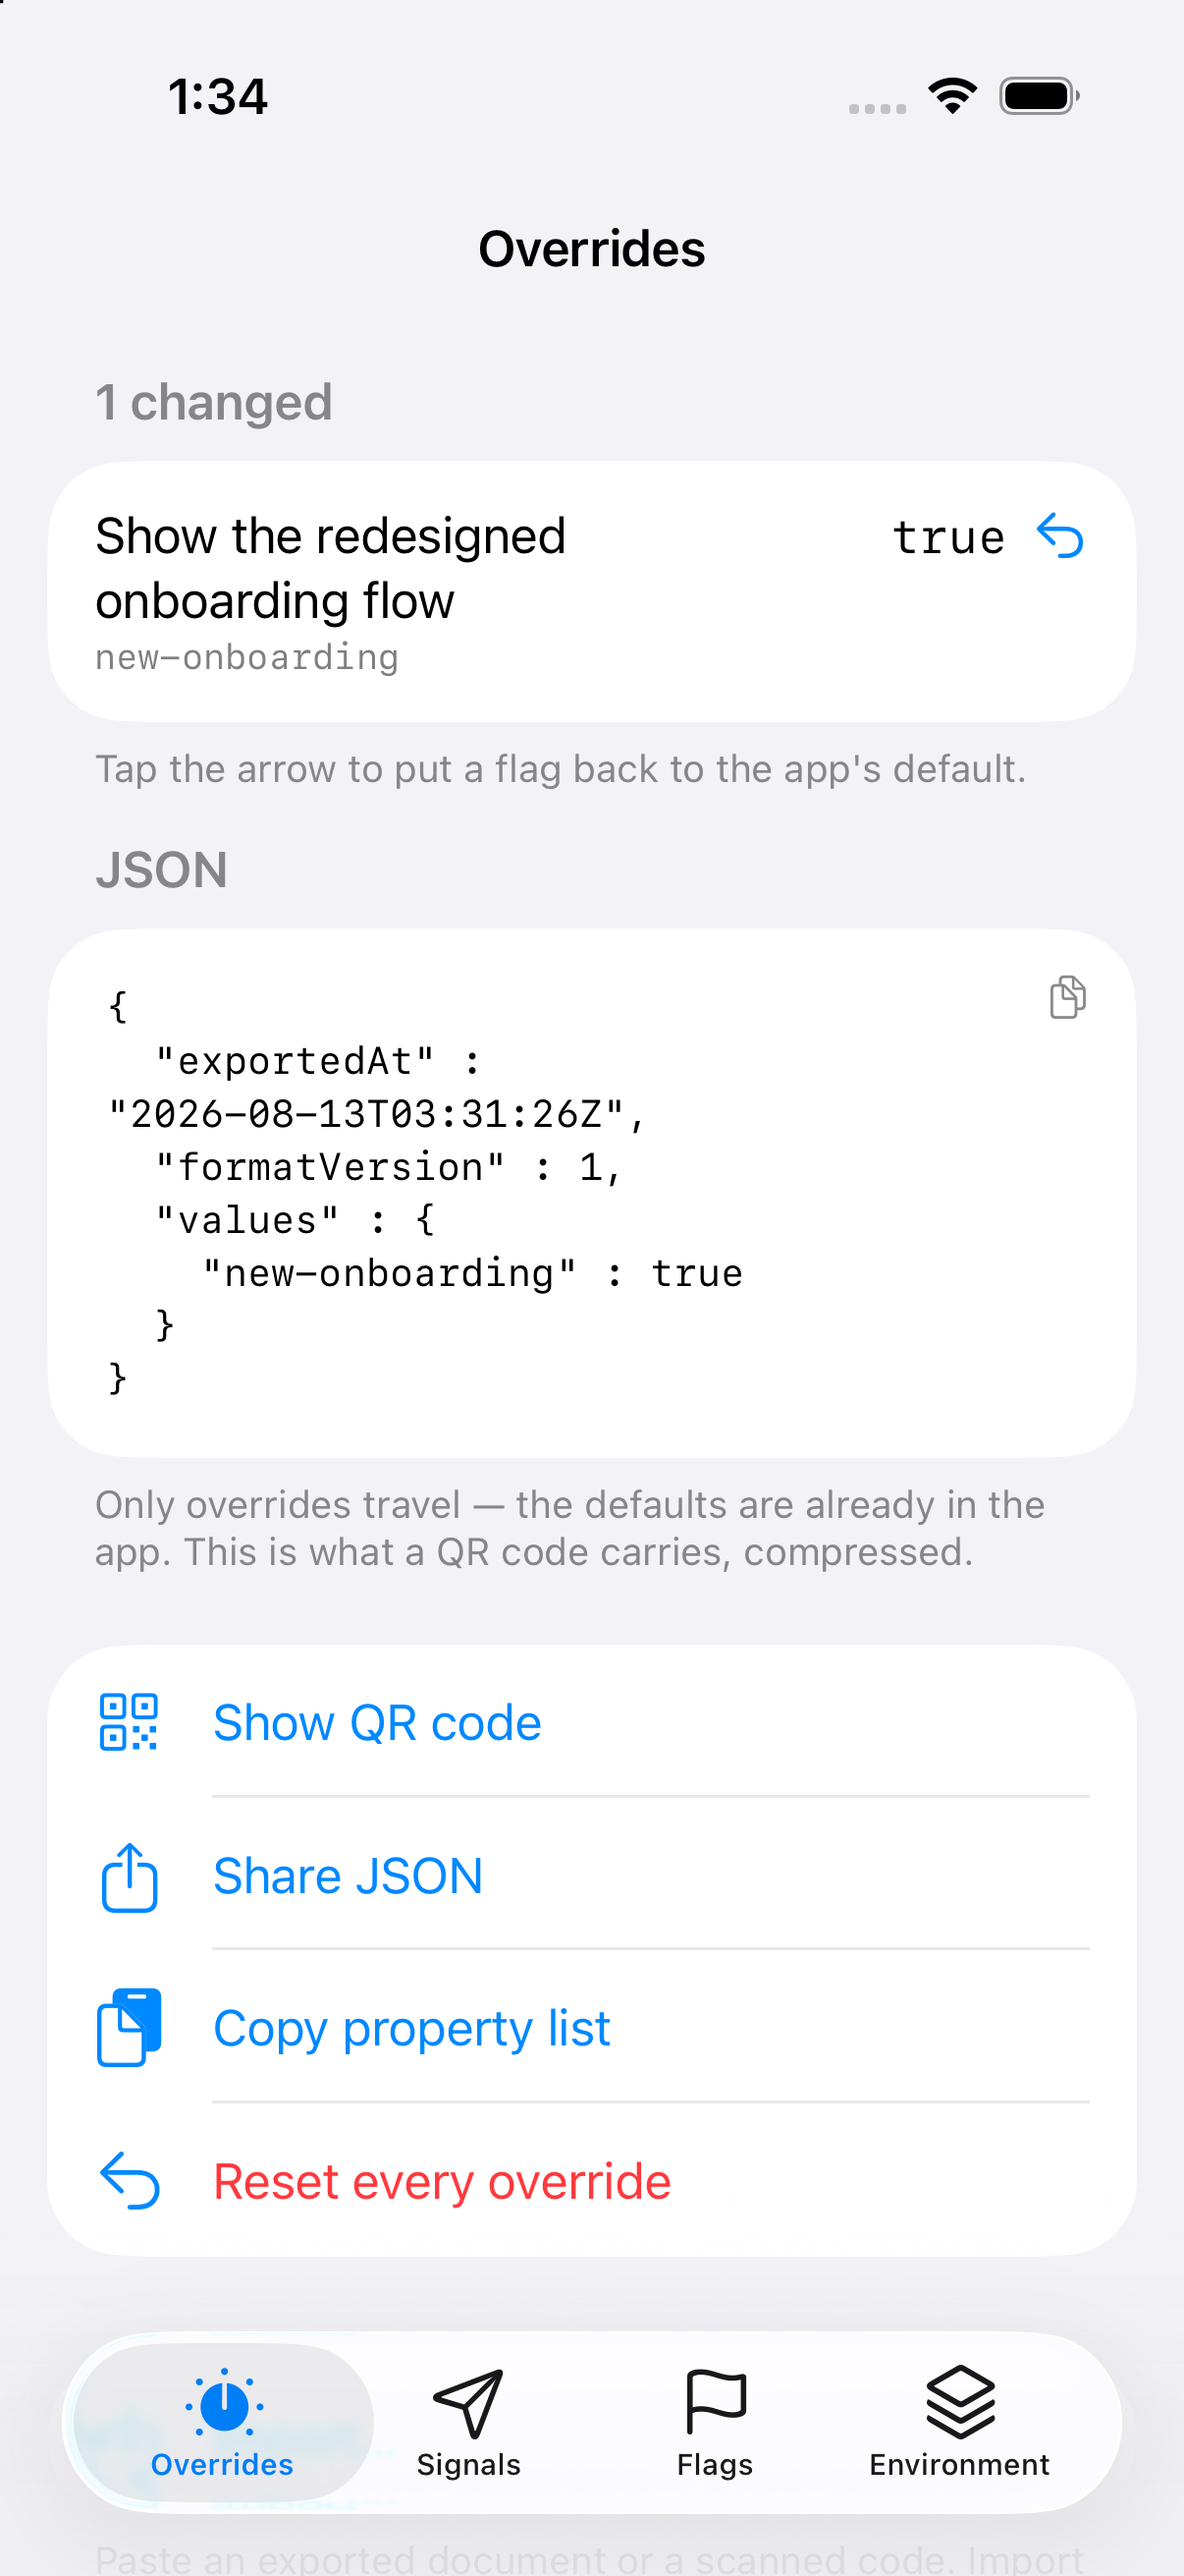
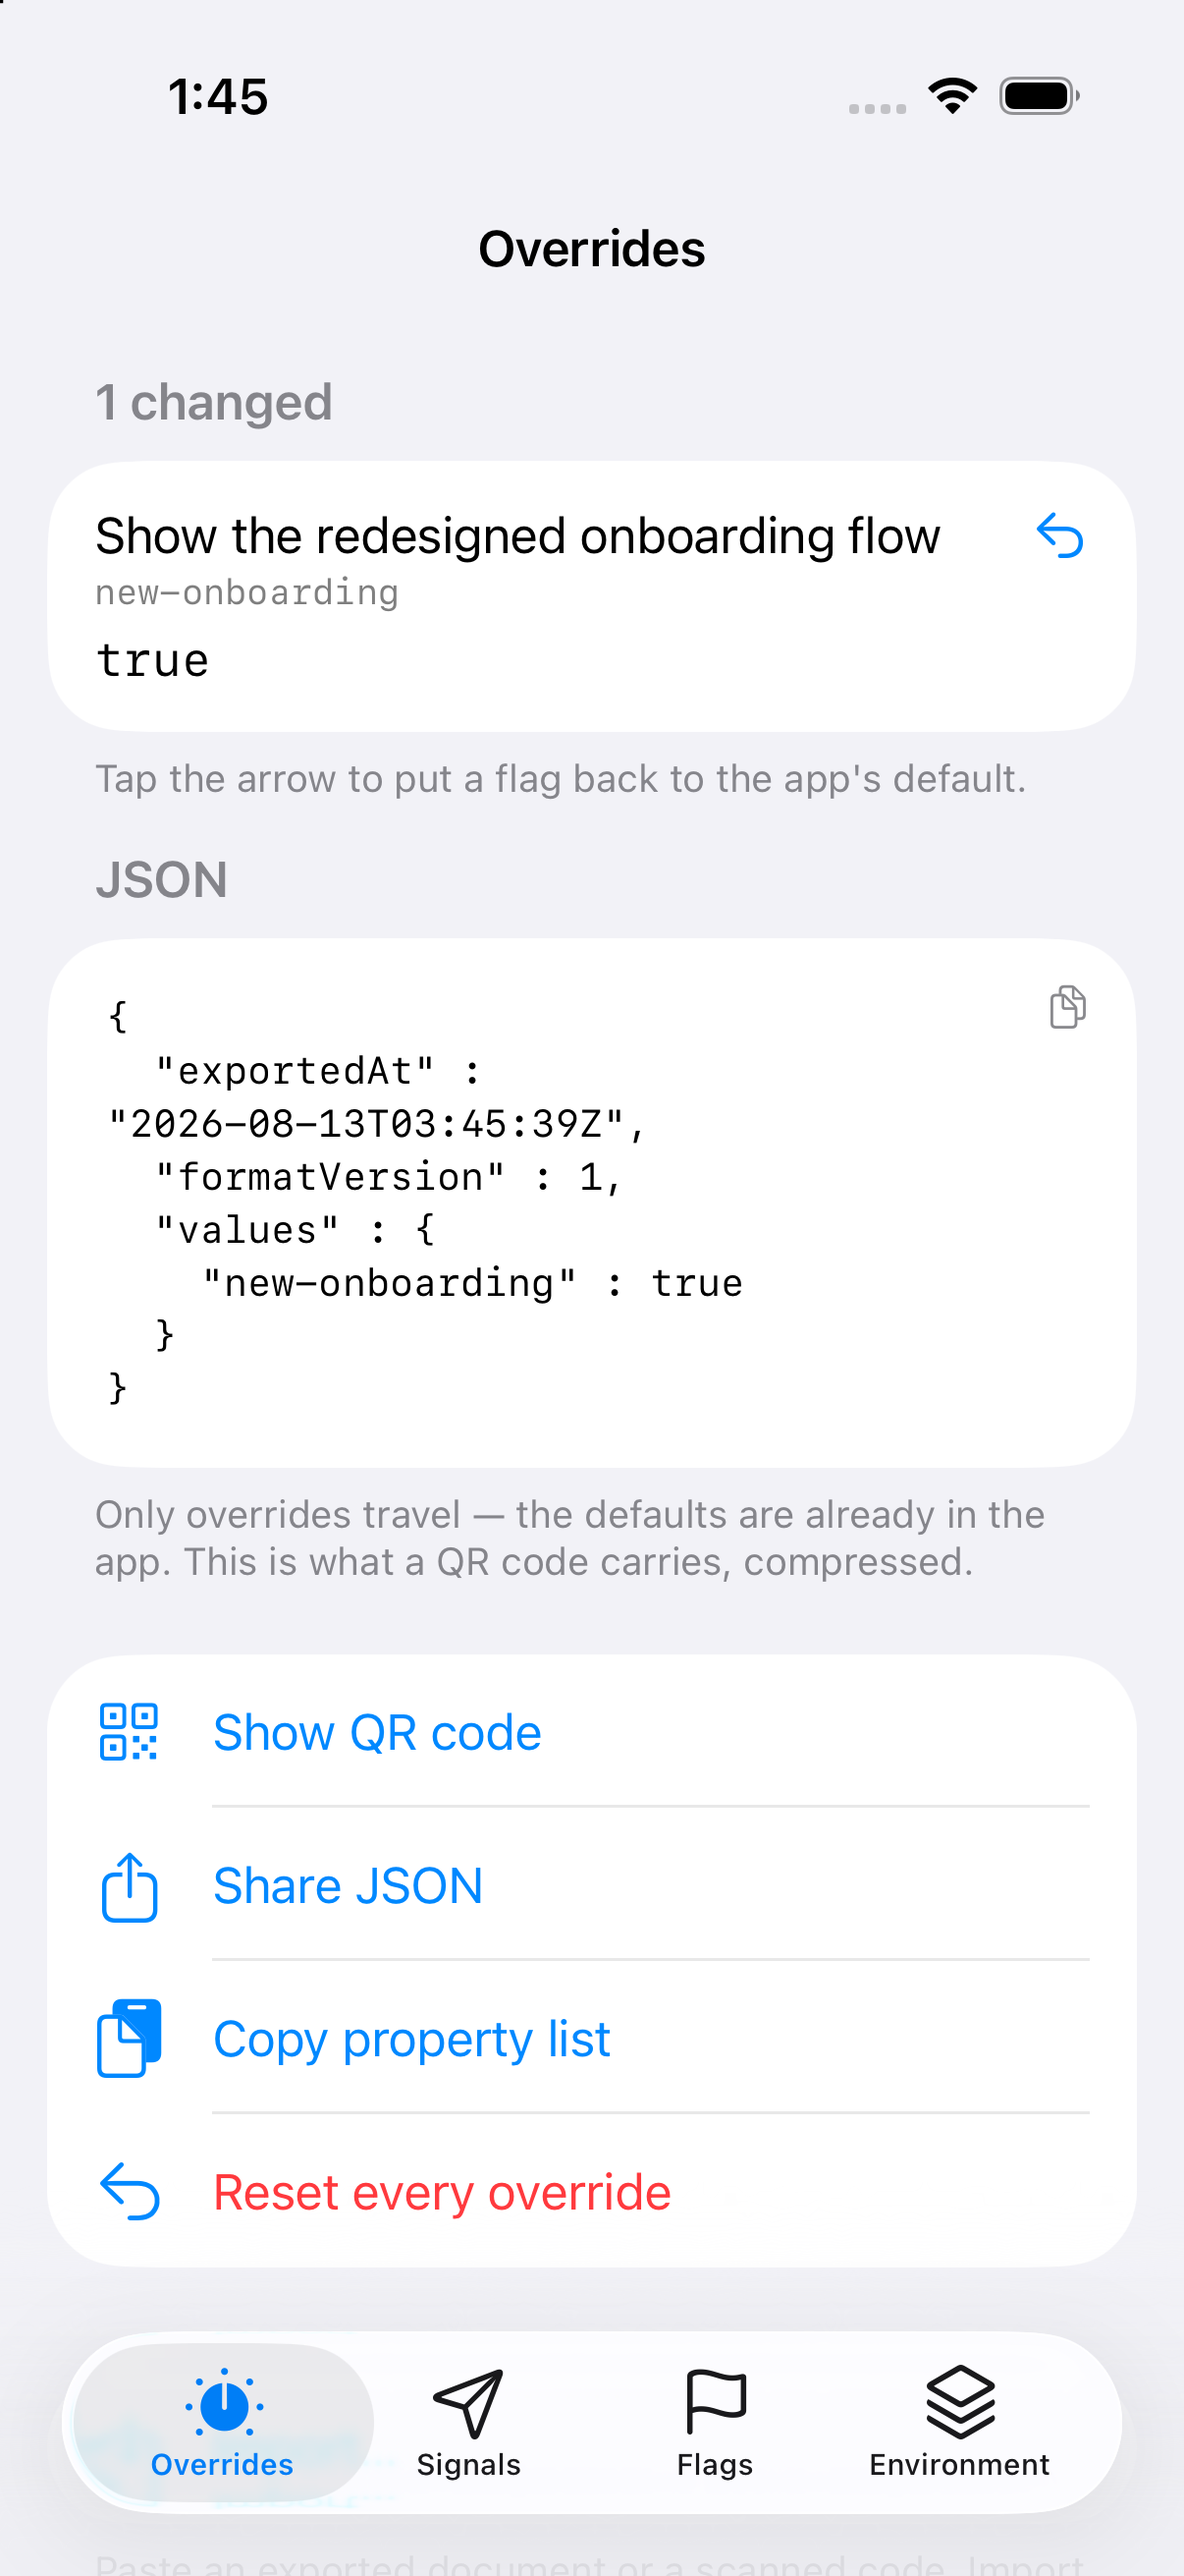
Give an override's value its own line
The value sat on the title's line, trailing, which meant the two competed for
width: the title wrapped to two lines while the value shrank to fit beside it.
That is backwards — the value is what the screen exists to show.

It now sits on its own line beneath the key, with the row's full width. The
lineLimit(1) and minimumScaleFactor(0.6) that propped up the old arrangement are
gone with it, so a URL or an array wraps and stays readable instead of being
scaled down to fit a gap. The reset arrow keeps its place beside the title.

Left leading-aligned. Trailing is what the Flags rows do, but those are controls
sharing a line with a label; this is a full-width line of monospaced text, and
long values read better starting where the eye already is. One line to change if
you want it the other way.

Screenshot updated.

Claude-Session: https://claude.ai/code/session_01NnwCqKNm8rZ63Au6bpYdaD

diff --git a/Sources/FeatureFlagUI/FlagOverridesView.swift b/Sources/FeatureFlagUI/FlagOverridesView.swift
@@ -77,27 +77,32 @@
         private var overrides: some View {
             Section {
                 ForEach(overriddenEntries, id: \.key) { entry in
-                    HStack(alignment: .firstTextBaseline) {
-                        VStack(alignment: .leading, spacing: 2) {
-                            Text(entry.description)
-                            Text(entry.key.rawValue)
-                                .font(.caption.monospaced())
-                                .foregroundStyle(.secondary)
+                    VStack(alignment: .leading, spacing: 6) {
+                        HStack(alignment: .firstTextBaseline) {
+                            VStack(alignment: .leading, spacing: 2) {
+                                Text(entry.description)
+                                Text(entry.key.rawValue)
+                                    .font(.caption.monospaced())
+                                    .foregroundStyle(.secondary)
+                            }
+
+                            Spacer(minLength: 8)
+
+                            Button {
+                                try? store.reset(entry)
+                            } label: {
+                                Image(systemName: "arrow.uturn.backward")
+                            }
+                            .buttonStyle(.borderless)
                         }
 
-                        Spacer(minLength: 8)
-
+                        // On its own line, so it has the row's full width. Sharing a
+                        // line with the title meant a URL or an array had to shrink to
+                        // fit beside it, which is the value you most want to read.
                         Text(store.value(for: entry).displayString)
                             .font(.callout.monospaced())
-                            .lineLimit(1)
-                            .minimumScaleFactor(0.6)
-
-                        Button {
-                            try? store.reset(entry)
-                        } label: {
-                            Image(systemName: "arrow.uturn.backward")
-                        }
-                        .buttonStyle(.borderless)
+                            .textSelection(.enabled)
+                            .frame(maxWidth: .infinity, alignment: .leading)
                     }
                 }
             } header: {
